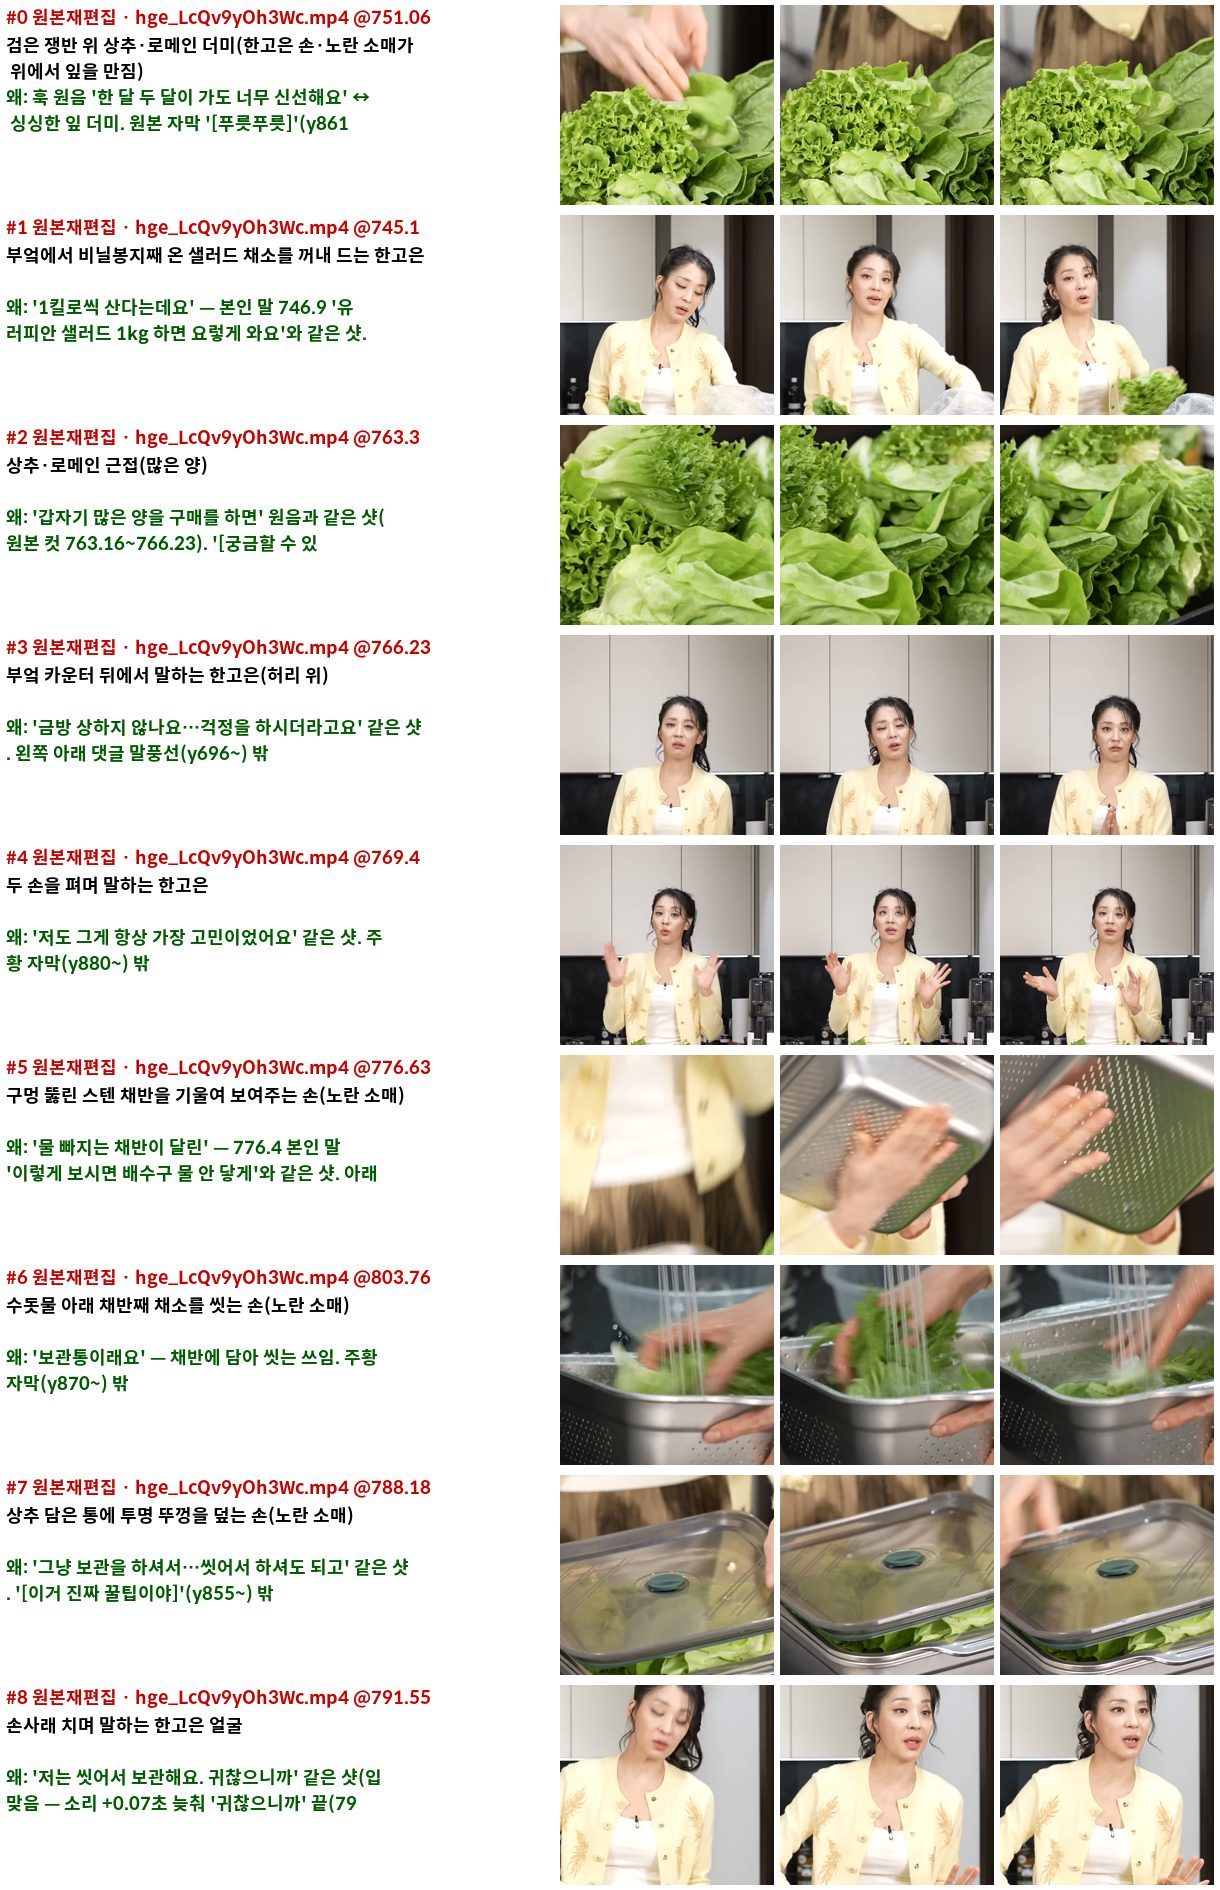
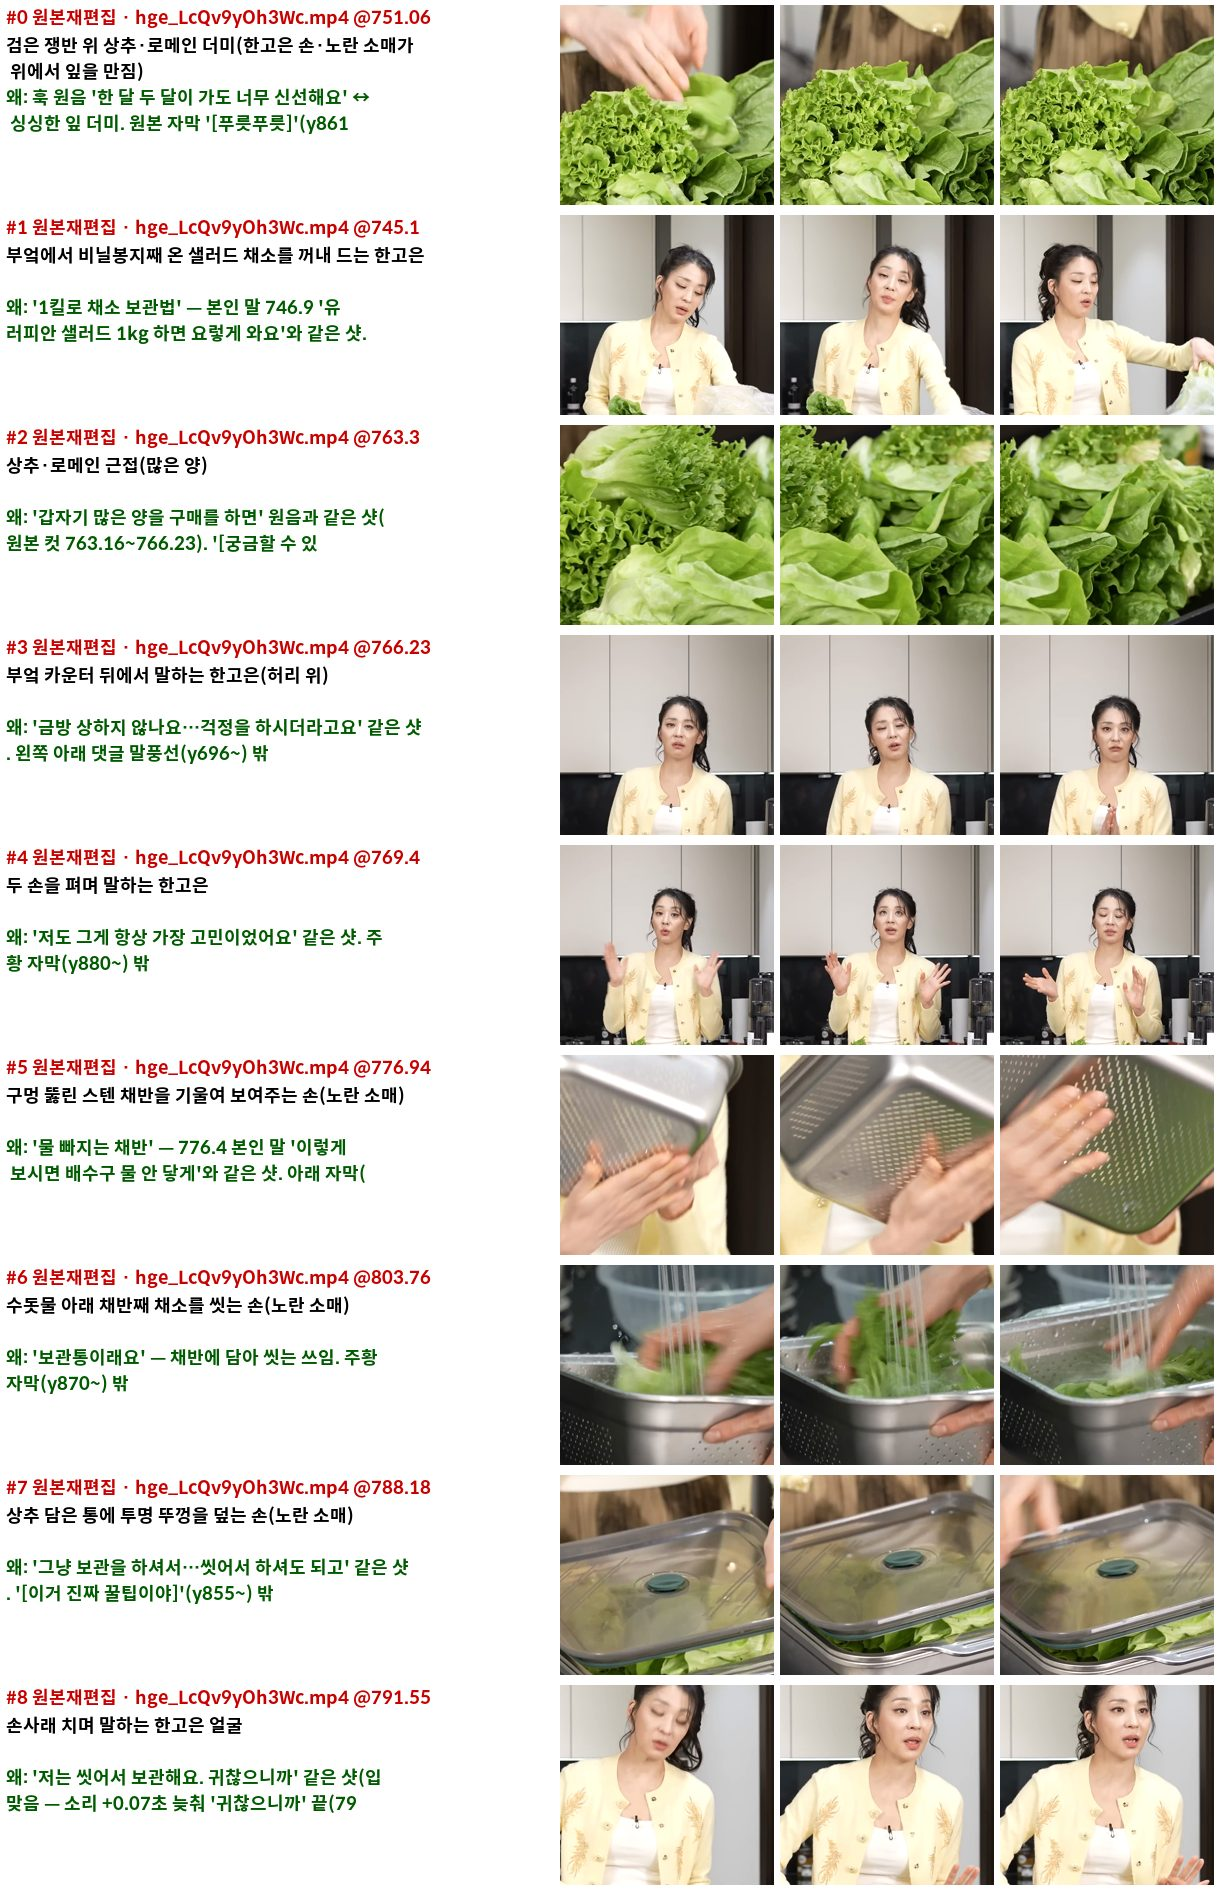
얜샷템 한고은 채소 보관통: 계획 시트를 최종 대본·얜샷템 틀로 다시 뽑음 (관제 097)

diff --git a/channel/annapick/1편_한고은채소통/plan/계획.md b/channel/annapick/1편_한고은채소통/plan/계획.md
@@ -1,12 +1,12 @@
 # 계획 — itYwQVyuCcc
 
-- 꼴: 나레 human(narr_video) · 틀 frame_plan_임시.json
+- 꼴: 나레 human(narr_video) · 틀 frame_render.json
 - 접촉 시트: `C:\Users\CH\Desktop\로또의 주식\.tracks\칼카피숏템엔진\channel\annapick\1편_한고은채소통\plan\계획_시트.jpg`
 
 ## 대본
 
-1. (N1) 한고은은 샐러드 채소를, 한 번에 1킬로씩, 산다는데요. — 근거 f1
-2. (N2) TV 보다가, 우연히 알게 됐다는, 물 빠지는 채반이 달린, 보관통이래요. — 근거 f2, f3
+1. (N1) 한고은의, 1킬로 채소 보관법이라는데. — 근거 f1
+2. (N2) TV에서 우연히 알게 된, 물 빠지는 채반, 보관통이라네요. — 근거 f2, f3
 
 | 근거 | 내용 | 출처 |
 |---|---|---|
@@ -19,11 +19,11 @@
 | # | 종류 | 소스 | 시작 | 칸 | src_crop | 왜 |
 |---|---|---|---|---|---|---|
 | 0 | 원본재편집 | [hge_LcQv9yOh3Wc.mp4](https://www.youtube.com/watch?v=LcQv9yOh3Wc) | 751.06 | 전폭 | [520, 0, 840, 840] | 훅 원음 '한 달 두 달이 가도 너무 신선해요' ↔ 싱싱한 잎 더미. 원본 자막 '[푸릇푸릇]'(y861~)·아래 자막(y900~) 밖 |
-| 1 | 원본재편집 | [hge_LcQv9yOh3Wc.mp4](https://www.youtube.com/watch?v=LcQv9yOh3Wc) | 745.1 | 전폭 | [525, 0, 860, 860] | '1킬로씩 산다는데요' — 본인 말 746.9 '유러피안 샐러드 1kg 하면 요렇게 와요'와 같은 샷. 아래 자막(y915~) 밖 |
+| 1 | 원본재편집 | [hge_LcQv9yOh3Wc.mp4](https://www.youtube.com/watch?v=LcQv9yOh3Wc) | 745.1 | 전폭 | [525, 0, 860, 860] | '1킬로 채소 보관법' — 본인 말 746.9 '유러피안 샐러드 1kg 하면 요렇게 와요'와 같은 샷. 아래 자막(y915~) 밖 |
 | 2 | 원본재편집 | [hge_LcQv9yOh3Wc.mp4](https://www.youtube.com/watch?v=LcQv9yOh3Wc) | 763.3 | 전폭 | [500, 0, 850, 850] | '갑자기 많은 양을 구매를 하면' 원음과 같은 샷(원본 컷 763.16~766.23). '[궁금할 수 있어]'(y864~) 밖 |
 | 3 | 원본재편집 | [hge_LcQv9yOh3Wc.mp4](https://www.youtube.com/watch?v=LcQv9yOh3Wc) | 766.23 | 전폭 | [675, 0, 690, 690] | '금방 상하지 않나요…걱정을 하시더라고요' 같은 샷. 왼쪽 아래 댓글 말풍선(y696~) 밖 |
 | 4 | 원본재편집 | [hge_LcQv9yOh3Wc.mp4](https://www.youtube.com/watch?v=LcQv9yOh3Wc) | 769.4 | 전폭 | [545, 0, 860, 860] | '저도 그게 항상 가장 고민이었어요' 같은 샷. 주황 자막(y880~) 밖 |
-| 5 | 원본재편집 | [hge_LcQv9yOh3Wc.mp4](https://www.youtube.com/watch?v=LcQv9yOh3Wc) | 776.63 | 전폭 | [520, 0, 880, 880] | '물 빠지는 채반이 달린' — 776.4 본인 말 '이렇게 보시면 배수구 물 안 닿게'와 같은 샷. 아래 자막(y924~) 밖 |
+| 5 | 원본재편집 | [hge_LcQv9yOh3Wc.mp4](https://www.youtube.com/watch?v=LcQv9yOh3Wc) | 776.94 | 전폭 | [520, 0, 880, 880] | '물 빠지는 채반' — 776.4 본인 말 '이렇게 보시면 배수구 물 안 닿게'와 같은 샷. 아래 자막(y924~) 밖 |
 | 6 | 원본재편집 | [hge_LcQv9yOh3Wc.mp4](https://www.youtube.com/watch?v=LcQv9yOh3Wc) | 803.76 | 전폭 | [260, 0, 840, 840] | '보관통이래요' — 채반에 담아 씻는 쓰임. 주황 자막(y870~) 밖 |
 | 7 | 원본재편집 | [hge_LcQv9yOh3Wc.mp4](https://www.youtube.com/watch?v=LcQv9yOh3Wc) | 788.18 | 전폭 | [560, 0, 840, 840] | '그냥 보관을 하셔서…씻어서 하셔도 되고' 같은 샷. '[이거 진짜 꿀팁이야]'(y855~) 밖 |
 | 8 | 원본재편집 | [hge_LcQv9yOh3Wc.mp4](https://www.youtube.com/watch?v=LcQv9yOh3Wc) | 791.55 | 전폭 | [710, 200, 715, 715] | '저는 씻어서 보관해요. 귀찮으니까' 같은 샷(입 맞음 — 소리 +0.07초 늦춰 '귀찮으니까' 끝(793.64)까지, 화면은 원본 컷 793.62 전 793.52에서 끊음). 빨간 꾸밈 글 '먹을 때 귀찮아'(792.77~793.62, y92~183)은 y200부터 잘라 뺌(머리 윗부분 조금 잘림)·아래 자막(y924~) 밖 |
